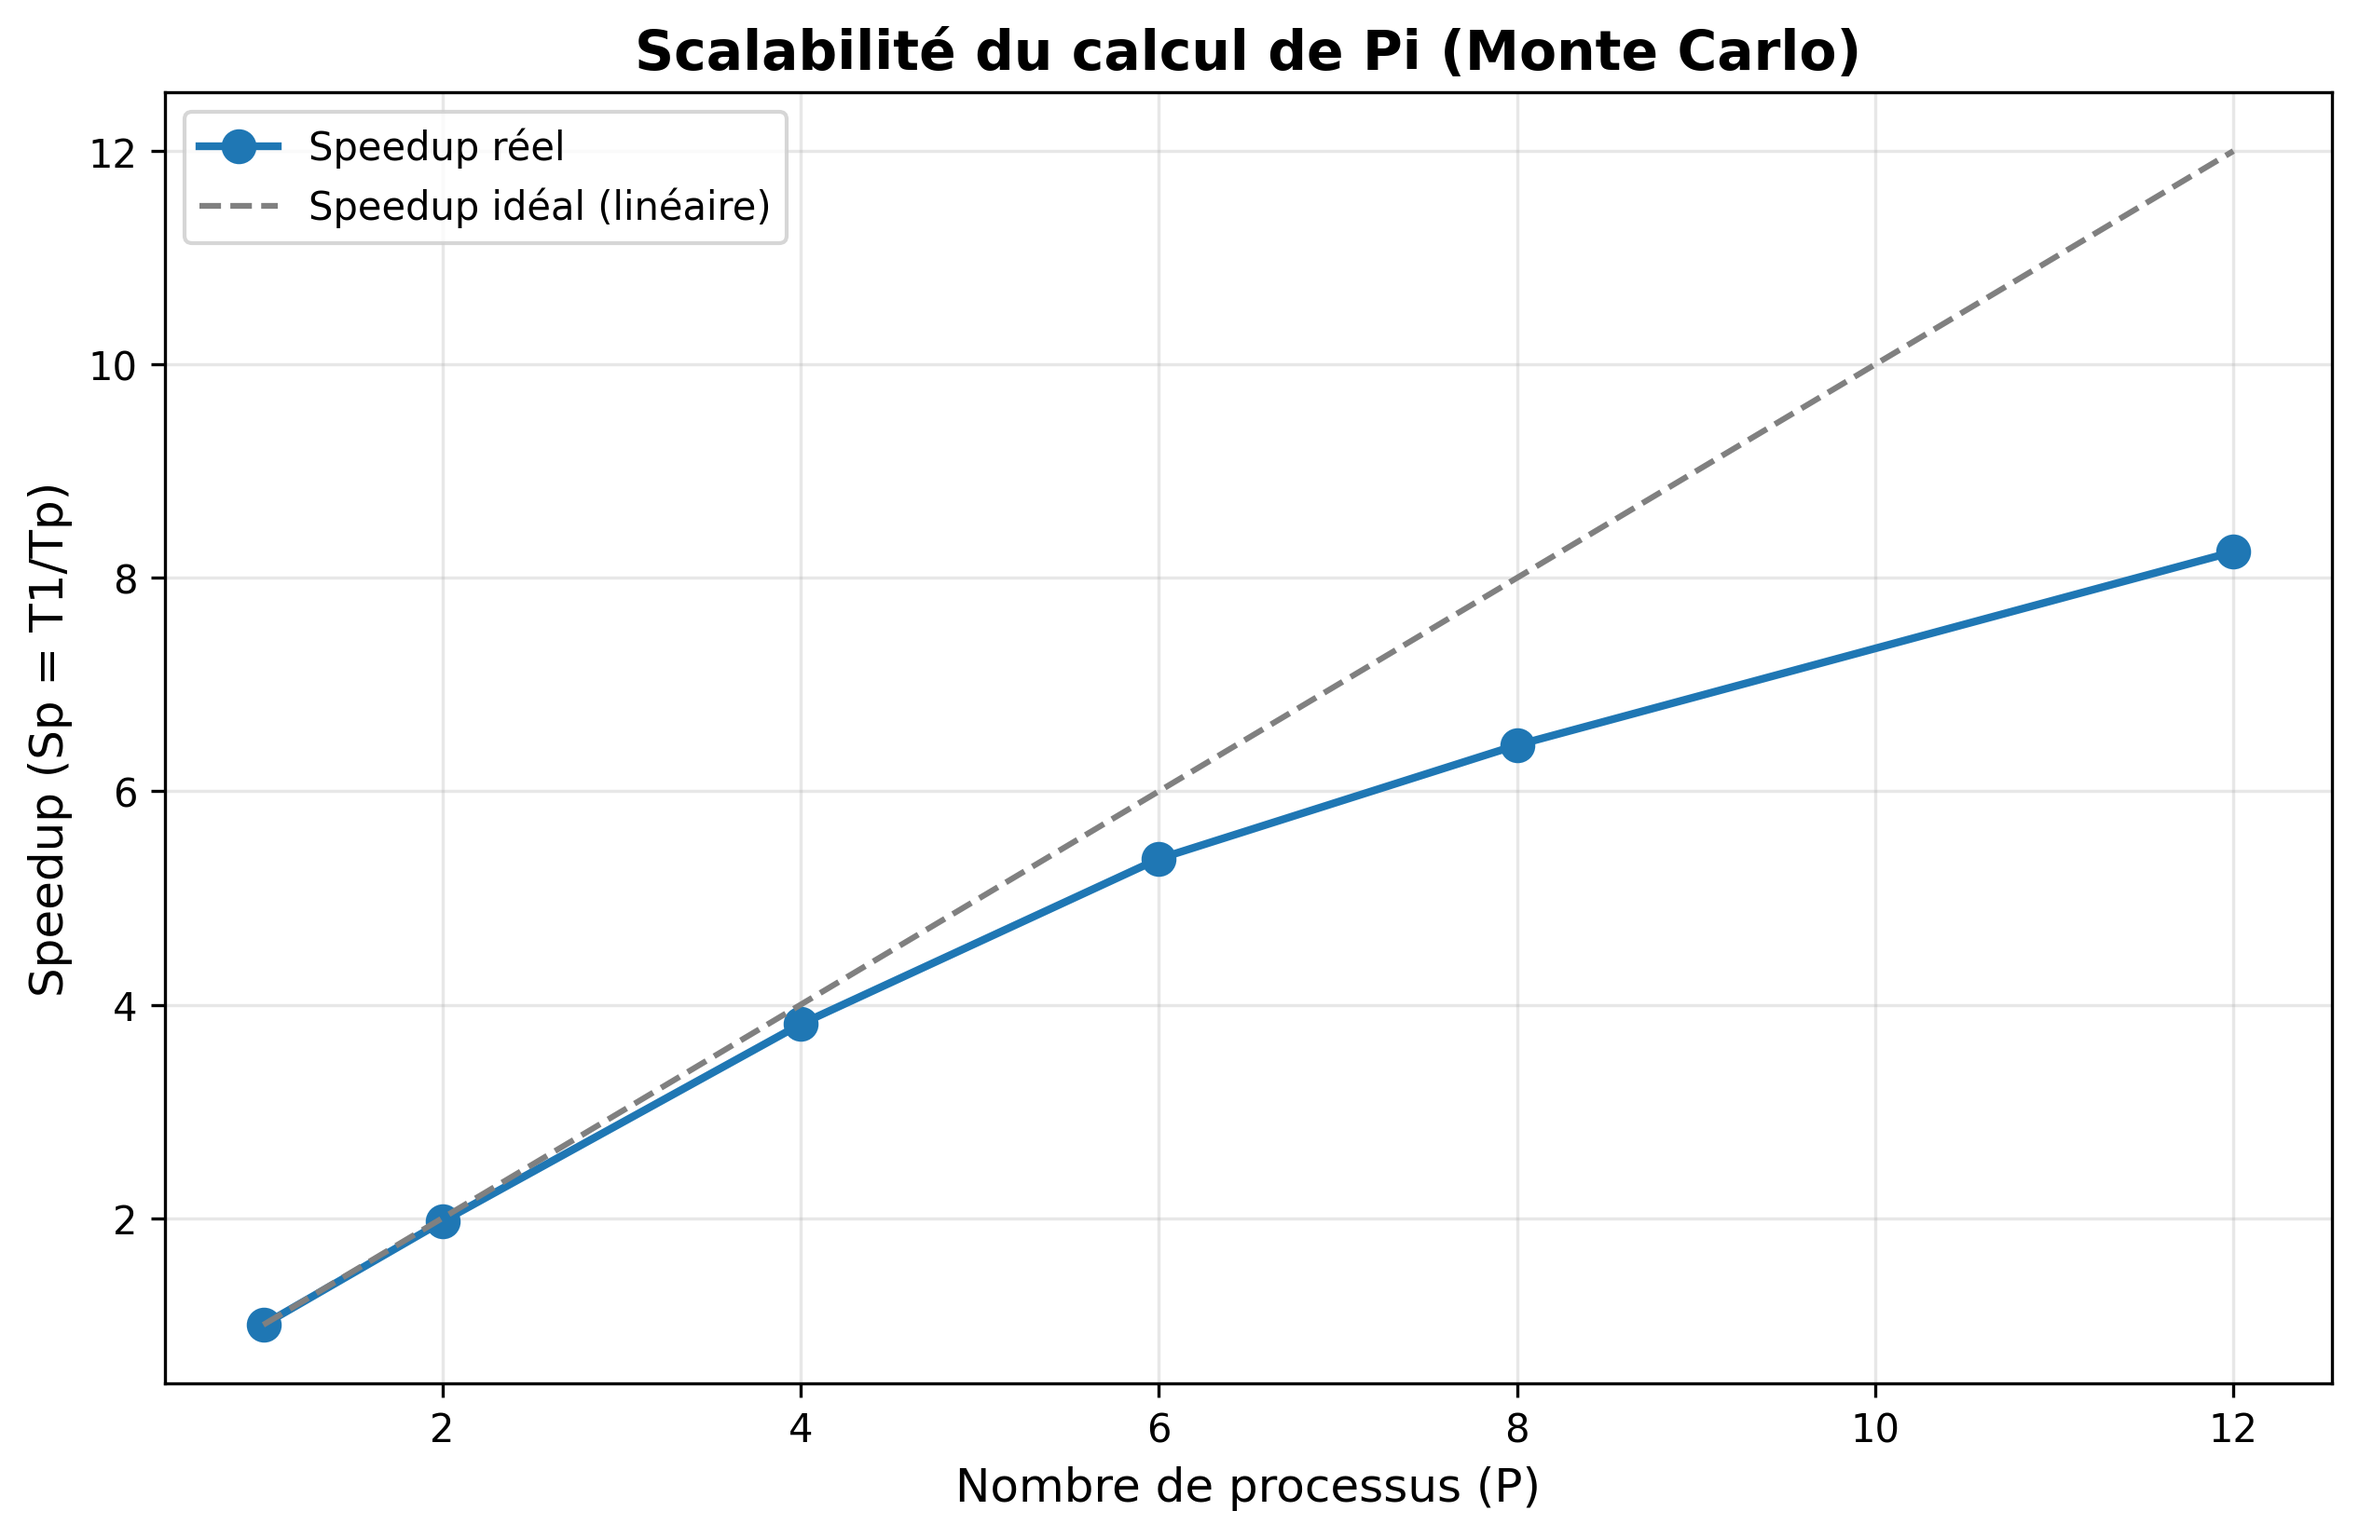
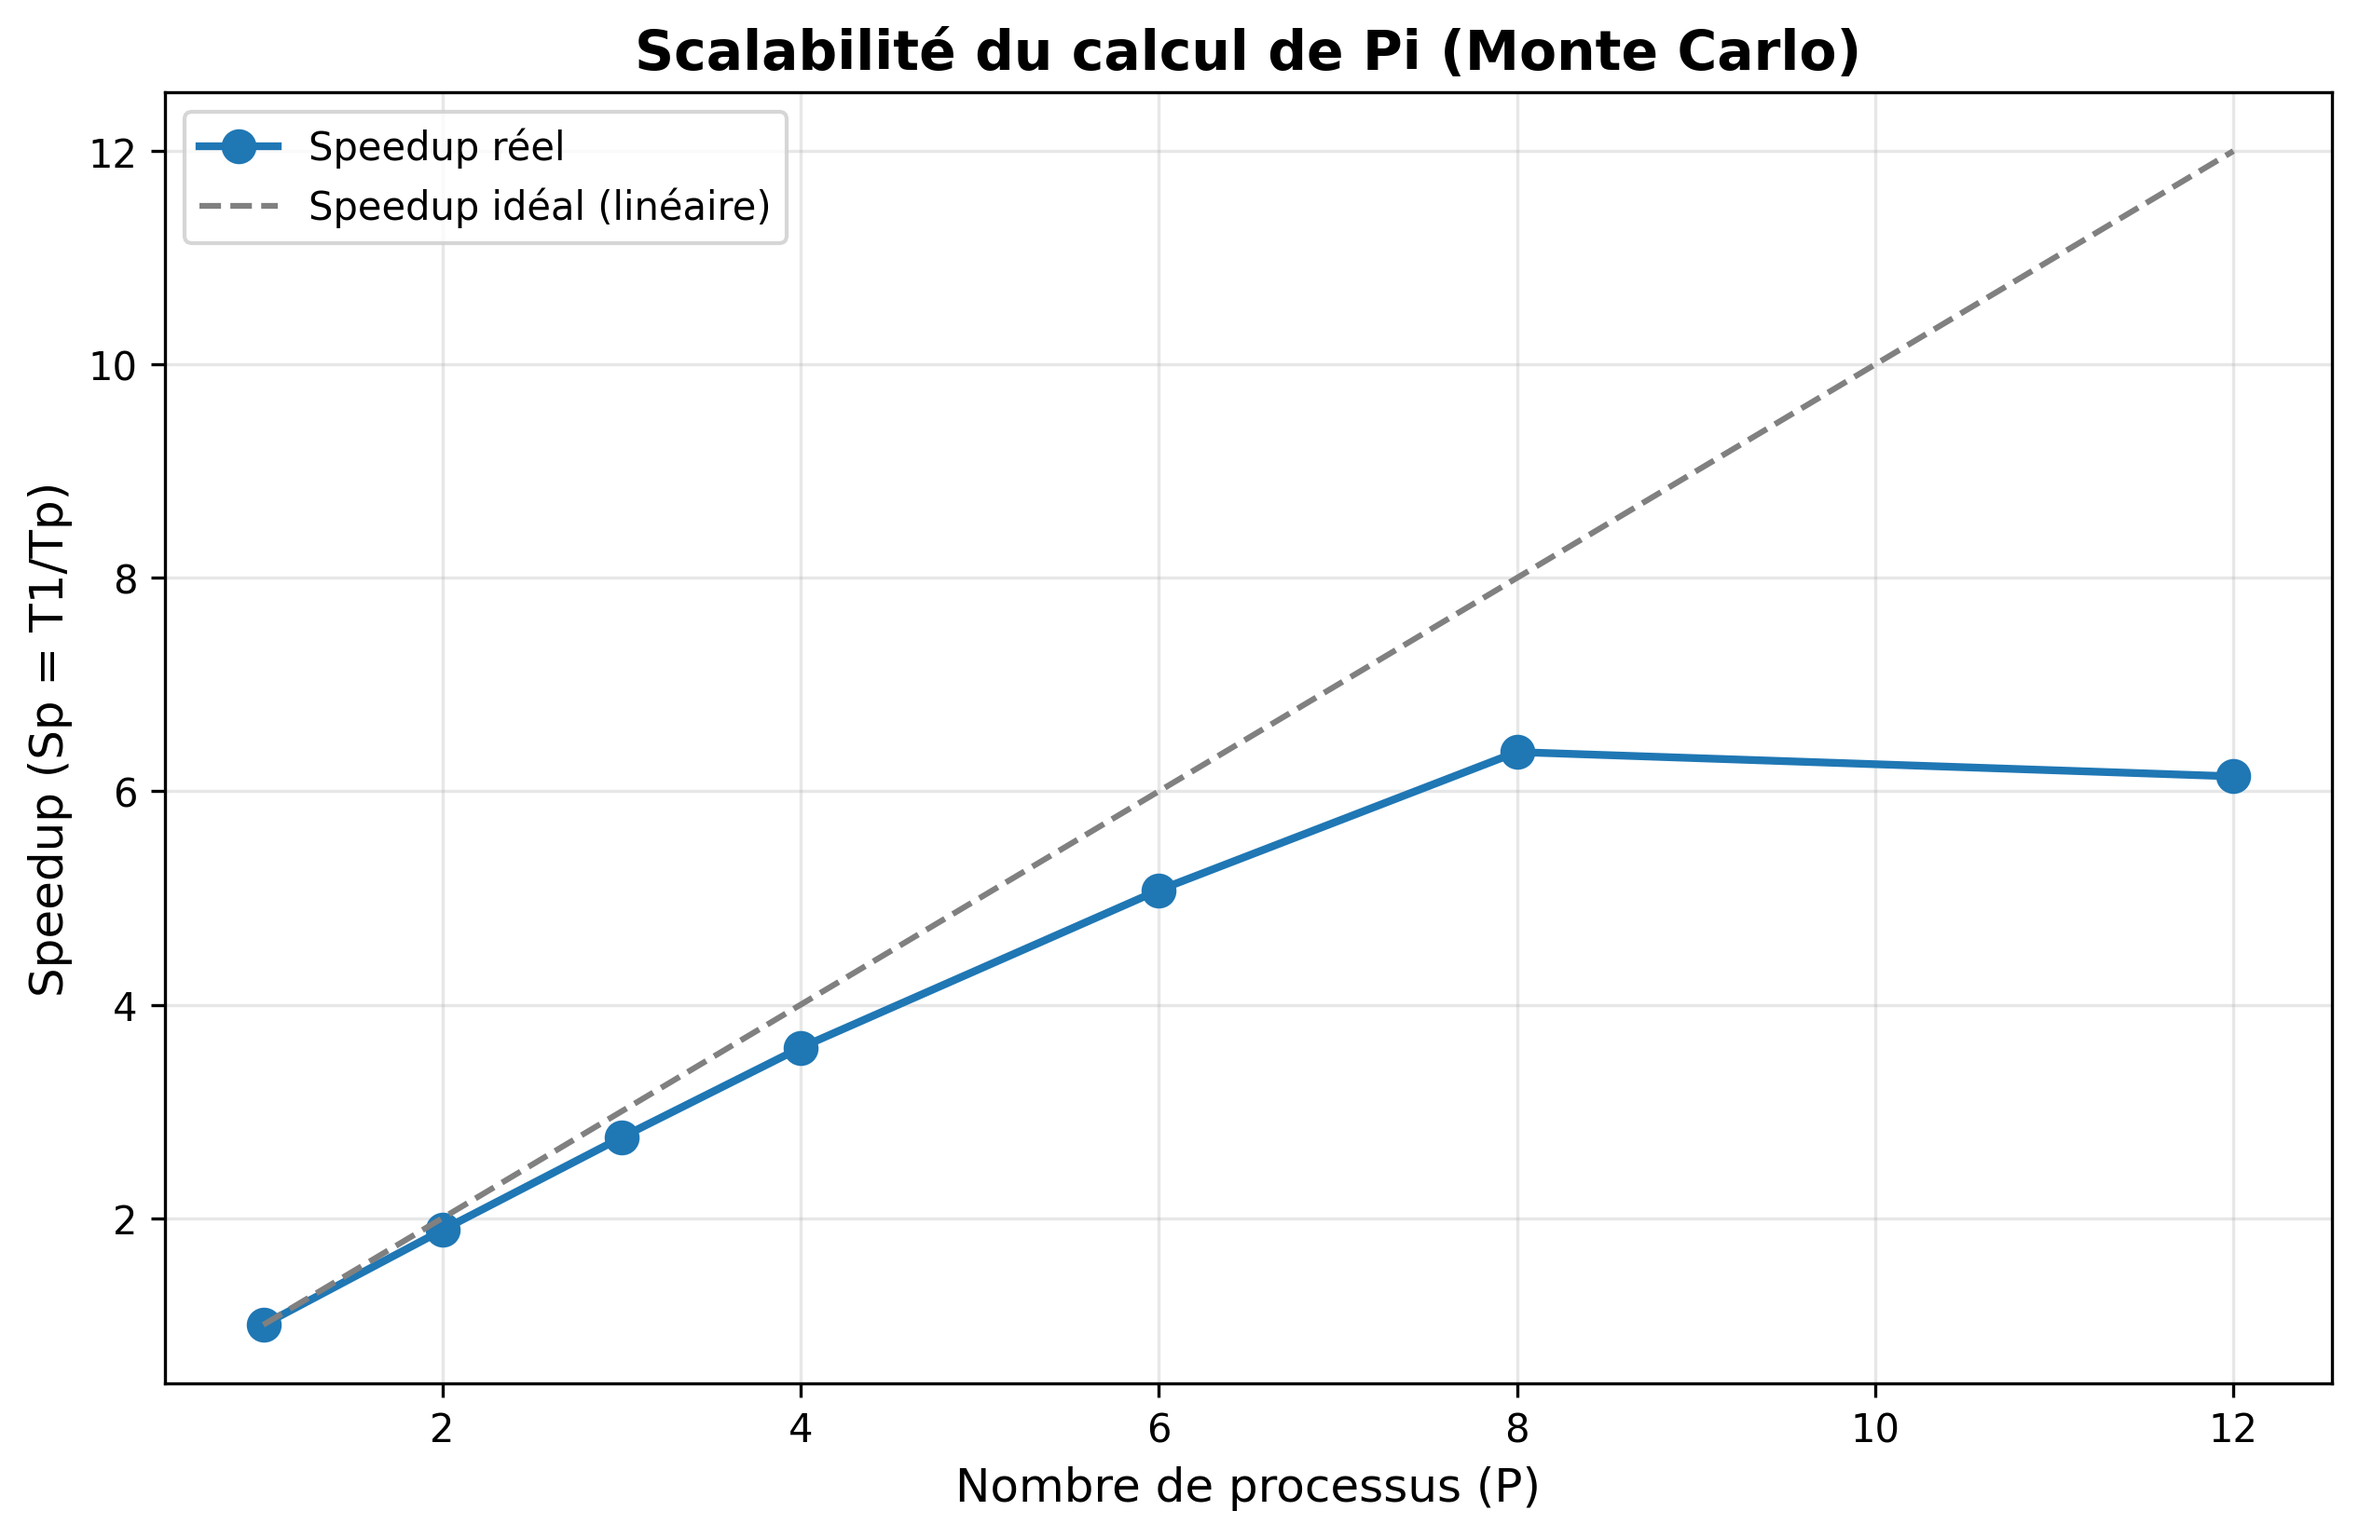
calcule la scalabilité forte

diff --git a/Initial_sources/main_scalabilte_PI.java b/Initial_sources/main_scalabilte_PI.java
@@ -27,10 +27,12 @@ public class main_scalabilte_PI {
 	    // NTOT constant pour scalabilité forte
 	    int NTOT = 1200000000;
 	    int numWorkers = 12; // À changer manuellement pour chaque test
-	    
+	
 	    // Lancer l'expérience
-	    Master.Result result = new Master().doRun(NTOT/numWorkers, numWorkers);
-	    
+		//forte
+	    //Master.Result result = new Master().doRun(NTOT/numWorkers, numWorkers);
+	    //faible
+		Master.Result result = new Master().doRun(NTOT/numWorkers, numWorkers);
 	    // Écrire les résultats dans le CSV
 	    writer.println(result.ntot + "," + 
 	                   result.numWorkers + "," + 

diff --git a/Initial_sources/analyse_scalabiliteForte.py b/Initial_sources/analyse_scalabiliteForte.py
@@ -73,4 +73,4 @@ plt.show()
 grouped['Efficacite'] = (grouped['Speedup'] / grouped['NumWorkers']) * 100
 
 print("\nAnalyse de l'efficacité:")
-print(grouped[['NumWorkers', 'Speedup', 'Efficacite']])
+print(grouped[['NumWorkers', 'Speedup', 'Efficacite','Temps(ns)']])
